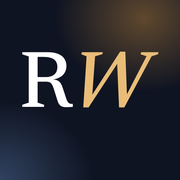
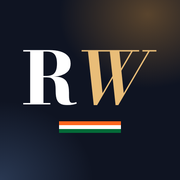
New nameplate: Modern Authority with Raisina Hill line art and tricolour bars
- Wordmark in Bodoni Moda (heavy roman 'Raisina', italic gold 'Wire'),
  set flush left over a heavy rule, with a line drawing of the Raisina
  Hill dome as the mark and the full skyline as a faint horizon below.
- Tricolour as plain saffron, white and green bars beside the tagline and
  wordmark; no Ashoka Chakra, seal or emblem.
- Same mark in the pinned menu, footer and control room header.
- New RW app icons, maskable icon, favicon and link-preview image.
- brand.js holds the line art and tricolour so every placement matches.

Claude-Session: https://claude.ai/code/session_014xfZjNi94E1FGGt9duM1wX

Changed region(s): [[0.1111, 0.2778, 0.8889, 0.6111], [0.3056, 0.6667, 0.6944, 0.75]]

diff --git a/src/style.css b/src/style.css
@@ -4,7 +4,7 @@
   color-scheme:light;
   --bg:#f8f8fa;--ink:#0f1422;--ink-2:#3b414d;--muted:#596173;--line:rgba(15,20,34,.09);
   --gold:#e9bd78;--gold-ink:#7a530f;--saffron:#f5a944;--up:#137a55;--down:#b4332a;--live:#d64535;
-  --serif:Newsreader,Georgia,"Times New Roman",serif;--sans:Manrope,system-ui,-apple-system,"Segoe UI",sans-serif;--mono:"DM Mono",ui-monospace,monospace;
+  --serif:Newsreader,Georgia,"Times New Roman",serif;--display:"Bodoni Moda",Didot,"Bodoni 72",Georgia,serif;--sans:Manrope,system-ui,-apple-system,"Segoe UI",sans-serif;--mono:"DM Mono",ui-monospace,monospace;
   --max:1360px;--gutter:40px;--text-scale:1;
   --glass-bg:rgba(255,255,255,.6);
   --glass-shadow:inset 0 1px 0 rgba(255,255,255,.95),0 0 0 1px rgba(15,20,34,.05),0 16px 46px rgba(15,20,34,.08);
@@ -66,10 +66,25 @@ img{max-width:100%;display:block}
 .utility-left span{display:inline-flex;align-items:center;gap:8px}
 .utility-right{display:flex;align-items:center;gap:10px}
 .utility-right .text-btn{border:0;background:none;font-weight:700;padding:10px 6px}
-.masthead{text-align:center;padding-top:14px}
-.masthead a{display:inline-block;font:500 clamp(46px,6vw,74px)/1 var(--serif);letter-spacing:-2px;color:var(--ink)}
-.masthead a i{color:var(--gold-ink)}
-.masthead .meta{margin-top:10px}
+/* Nameplate: Bodoni wordmark, Raisina Hill dome mark, tricolour bars, skyline horizon. */
+.wordmark{font:800 1em/.86 var(--display);font-variation-settings:"opsz" 11;letter-spacing:-.035em;color:var(--ink);white-space:nowrap}
+.wordmark em{font-style:italic;font-weight:600;font-variation-settings:"opsz" 11;letter-spacing:-.02em;color:var(--gold-ink)}
+.dome-mark{display:block;flex-shrink:0;color:var(--ink)}
+.tribar{display:inline-flex;gap:3px;align-self:stretch;flex-shrink:0}
+.tribar i{display:block;width:5px;background:#FF671F}
+.tribar i:nth-child(2){background:#fff;box-shadow:inset 0 0 0 1px rgba(15,20,34,.14)}
+.tribar i:nth-child(3){background:#046A38}
+.masthead{padding-top:22px}
+.nameplate{display:flex;align-items:flex-end;justify-content:space-between;gap:30px;padding-bottom:16px;border-bottom:3px solid var(--ink)}
+.nameplate-link{display:flex;align-items:flex-end;gap:clamp(12px,1.6vw,22px);font-size:clamp(46px,7.4vw,104px)}
+.nameplate-link:hover .wordmark{color:var(--ink)}
+.nameplate .dome-mark{width:1.27em;margin-bottom:.08em}
+.nameplate-tag{display:flex;align-items:center;gap:14px;margin-bottom:8px}
+.nameplate-tag .tribar{height:54px}
+.nameplate-tag p{margin:0;font:500 11px/1.7 var(--mono);letter-spacing:1.5px;text-transform:uppercase;color:var(--ink-2)}
+.nameplate-tag .l{display:block}
+.nameplate-tag .gold{color:var(--gold-ink)}
+.skyline-band{display:block;width:100%;height:62px;margin-top:6px;color:rgba(15,20,34,.32)}
 .nav-dock{position:sticky;top:10px;z-index:30;margin-top:20px}
 .nav-dock:before{content:"";position:absolute;left:0;right:0;top:-10px;height:0;background:linear-gradient(var(--bg) 72%,rgba(248,248,250,0));pointer-events:none;z-index:-1;transition:height .2s}
 body.nav-stuck .nav-dock:before{height:84px}
@@ -79,10 +94,11 @@ body.nav-stuck.is-reading .nav-dock:before{height:156px}
 .site-nav a{flex-shrink:0;padding:9px 15px;border-radius:999px;font-size:14px;font-weight:600;white-space:nowrap}
 .site-nav a:hover{background:rgba(15,20,34,.05);color:var(--ink)}
 .site-nav a[aria-current=page]{background:var(--ink);color:#fff}
-.site-nav .nav-brand{display:none;padding:6px 14px 6px 12px;font:500 21px/1 var(--serif);letter-spacing:-.4px}
+.site-nav .nav-brand{display:none;align-items:center;gap:8px;padding:4px 14px 4px 10px;font-size:22px}
+.site-nav .nav-brand .dome-mark{width:36px}
+.site-nav .nav-brand .tribar{height:18px;gap:2px}.site-nav .nav-brand .tribar i{width:3px}
 .site-nav .nav-brand:hover{background:none}
-.site-nav .nav-brand i{color:var(--gold-ink)}
-body.nav-stuck .site-nav .nav-brand{display:inline-block}
+body.nav-stuck .site-nav .nav-brand{display:inline-flex}
 body.nav-stuck .site-nav{max-width:var(--max);background:rgba(255,255,255,.86);box-shadow:inset 0 1px 0 rgba(255,255,255,.95),0 0 0 1px rgba(15,20,34,.06),0 18px 40px rgba(15,20,34,.12)}
 .read-progress{position:fixed;left:0;top:0;z-index:60;width:100%;height:3px;transform:scaleX(0);transform-origin:0 50%;background:linear-gradient(90deg,#cda05b,#e9bd78,#f5a944);pointer-events:none}
 .view-enter{animation:view-in .35s ease}
@@ -167,7 +183,10 @@ body.nav-stuck .site-nav{max-width:var(--max);background:rgba(255,255,255,.86);b
 /* ---------- Footer ---------- */
 .site-footer{margin-top:70px;padding:34px 0 44px;border-top:1px solid var(--line)}
 .footer-top{display:flex;flex-wrap:wrap;align-items:center;justify-content:space-between;gap:20px}
-.footer-brand{font:500 28px var(--serif)}.footer-brand i{color:var(--gold-ink)}
+.footer-brand{display:inline-flex;align-items:center;gap:10px;font-size:30px}
+.footer-brand:hover .wordmark{color:var(--ink)}
+.footer-brand .dome-mark{width:46px}
+.footer-brand .tribar{height:24px;gap:2px}.footer-brand .tribar i{width:4px}
 .footer-links{display:flex;flex-wrap:wrap;gap:20px;font-size:14px;color:var(--muted)}
 .lead-form{margin-top:26px;border-radius:22px;padding:20px;display:grid;grid-template-columns:auto repeat(4,minmax(0,1fr)) auto;align-items:center;gap:10px}
 .lead-form .kicker{margin-right:8px}
@@ -277,8 +296,14 @@ body.nav-stuck .site-nav{max-width:var(--max);background:rgba(255,255,255,.86);b
   .side-item .kicker{margin-top:0}
   .side-item h3{font-size:18px}
   .lead-form{grid-template-columns:1fr}
-  .masthead a{letter-spacing:-1.2px}
-  .masthead .meta{font-size:10px}
+  .masthead{padding-top:16px}
+  .nameplate{flex-direction:column;align-items:flex-start;gap:12px;padding-bottom:12px;border-bottom-width:2px}
+  .nameplate-tag{margin-bottom:0}
+  .nameplate-tag .tribar{height:30px}
+  .nameplate-tag p{font-size:9px;line-height:1.6}
+  .nameplate-tag .l{display:inline}
+  .nameplate-tag .gold{display:block}
+  .skyline-band{height:34px}
   .site-nav{border-radius:16px;margin-top:16px}
   .dock{padding:12px}
   .dock-grid{display:flex;overflow-x:auto;scroll-snap-type:x mandatory;margin-inline:-12px;padding:0 12px 4px;scrollbar-width:none}

diff --git a/src/main.js b/src/main.js
@@ -1,5 +1,6 @@
 import "./style.css";
 import { editions, NEWSLETTER_URL, AUTHOR } from "./editions.js";
+import { domeMark, skyline, tribar, wordmark } from "./brand.js";
 
 const $ = (sel, root = document) => root.querySelector(sel);
 const $$ = (sel, root = document) => [...root.querySelectorAll(sel)];
@@ -93,13 +94,17 @@ function renderShell() {
           <div class="account-menu glass" id="accountMenu" role="menu" hidden></div></div>
       </div>
     </div>
-    <div class="masthead" id="masthead"><a href="#/" aria-label="Raisina Wire home">Raisina <i>Wire</i></a><div class="meta">An Indian perspective on a changing world</div></div>
+    <div class="masthead" id="masthead">
+      <div class="nameplate"><a class="nameplate-link" href="#/" aria-label="Raisina Wire home">${domeMark("dome-mark")}<span class="wordmark">${wordmark()}</span></a>
+        <div class="nameplate-tag">${tribar()}<p><span class="l">An Indian perspective</span> <span class="l">on a changing world</span> <span class="l gold">New Delhi · Est. 2026</span></p></div></div>
+      ${skyline("skyline-band", true)}
+    </div>
   </header>
   <div class="nav-dock"><div class="wrap"><nav class="site-nav glass" id="siteNav" aria-label="Sections"></nav></div></div>
   <div class="read-progress" id="readProgress" aria-hidden="true"></div>
   <main id="view" tabindex="-1"></main>
   <footer class="site-footer"><div class="wrap">
-    <div class="footer-top"><a class="footer-brand" href="#/">Raisina <i>Wire</i></a>
+    <div class="footer-top"><a class="footer-brand" href="#/" aria-label="Raisina Wire home">${domeMark("dome-mark")}<span class="wordmark">${wordmark()}</span>${tribar()}</a>
       <div class="footer-links"><a href="#/editions">All editions</a><a href="#/live">Live wire</a><a href="#/markets">Markets</a><a href="${NEWSLETTER_URL}" target="_blank" rel="noreferrer" id="linkedinLink">Newsletter on LinkedIn ↗</a><a href="/privacy.html">Privacy</a><a href="/terms.html">Terms</a></div></div>
     <form class="lead-form glass" id="leadForm"><span class="kicker">Briefings &amp; partnerships</span>
       <label class="sr-only" for="leadName">Your name</label><input id="leadName" name="name" placeholder="Your name" required minlength="2" autocomplete="name">
@@ -147,7 +152,7 @@ function renderShell() {
 }
 
 function renderNav(route) {
-  $("#siteNav").innerHTML = `<a class="nav-brand" href="#/" aria-label="Raisina Wire home" tabindex="-1">Raisina <i>Wire</i></a>` + NAV.map(([label, href, active]) => `<a href="${href}"${active(route) ? ' aria-current="page"' : ""}>${label === "Live" && state.coverage.length ? `<span class="nav-live" aria-label="Live coverage running"></span>` : ""}${label}</a>`).join("")
+  $("#siteNav").innerHTML = `<a class="nav-brand" href="#/" aria-label="Raisina Wire home" tabindex="-1">${domeMark("dome-mark")}<span class="wordmark">${wordmark()}</span>${tribar()}</a>` + NAV.map(([label, href, active]) => `<a href="${href}"${active(route) ? ' aria-current="page"' : ""}>${label === "Live" && state.coverage.length ? `<span class="nav-live" aria-label="Live coverage running"></span>` : ""}${label}</a>`).join("")
     + `<button class="search-btn" type="button" data-action="search" aria-label="Search"><svg width="16" height="16" viewBox="0 0 24 24" fill="none" stroke="currentColor" stroke-width="2" aria-hidden="true"><circle cx="11" cy="11" r="7"/><path d="M20 20l-3.5-3.5"/></svg></button>`;
   $("#siteNav").dispatchEvent(new Event("scroll"));
 }

diff --git a/admin.html b/admin.html
@@ -1,5 +1,5 @@
 <!doctype html>
-<html lang="en"><head><meta charset="utf-8"><meta name="viewport" content="width=device-width,initial-scale=1"><meta name="theme-color" content="#f6f7f9"><link rel="icon" href="/favicon.png" type="image/png"><title>Raisina Wire — Control Room</title><link rel="preconnect" href="https://fonts.googleapis.com"><link rel="preconnect" href="https://fonts.gstatic.com" crossorigin><link rel="stylesheet" href="https://fonts.googleapis.com/css2?family=Newsreader:ital,opsz,wght@0,6..72,500;1,6..72,500&family=Manrope:wght@400;500;600;700;800&family=DM+Mono:wght@400;500&display=swap"><link rel="stylesheet" href="/admin.css"></head>
-<body><header><a href="/" class="brand"><b>Raisina <i>Wire</i></b><span>Control room</span></a><div class="header-right"><span id="sessionLabel">Checking access…</span><a href="/">← View site</a></div></header>
+<html lang="en"><head><meta charset="utf-8"><meta name="viewport" content="width=device-width,initial-scale=1"><meta name="theme-color" content="#f6f7f9"><link rel="icon" href="/favicon.png" type="image/png"><title>Raisina Wire — Control Room</title><link rel="preconnect" href="https://fonts.googleapis.com"><link rel="preconnect" href="https://fonts.gstatic.com" crossorigin><link rel="stylesheet" href="https://fonts.googleapis.com/css2?family=Newsreader:ital,opsz,wght@0,6..72,500;1,6..72,500&family=Bodoni+Moda:ital,opsz,wght@0,6..96,800;1,6..96,600&family=Manrope:wght@400;500;600;700;800&family=DM+Mono:wght@400;500&display=swap"><link rel="stylesheet" href="/admin.css"></head>
+<body><header><a href="/" class="brand"><b>Raisina<i> Wire</i></b><em class="tribar" aria-hidden="true"><i></i><i></i><i></i></em><span>Control room</span></a><div class="header-right"><span id="sessionLabel">Checking access…</span><a href="/">← View site</a></div></header>
 <div class="layout"><aside class="sidebar"><div class="side-label">CONTROL ROOM</div><button class="nav active" data-view="overview">Overview</button><button class="nav" data-view="editorial">Articles</button><button class="nav" data-view="multimedia">Multimedia</button><button class="nav" data-view="live">Live publishing</button><button class="nav" data-view="members">Members & roles</button><button class="nav" data-view="community">Community moderation</button><button class="nav" data-view="events">Events & briefings</button><button class="nav" data-view="sales">Sales & leads</button><button class="nav" data-view="social">Social metrics</button><div class="sidebar-note">Protected area · admin/editor roles enforced by API</div></aside>
 <main><div class="page-head"><div><small>RAISINA WIRE / ADMINISTRATION</small><h1 id="viewTitle">Overview</h1><p id="viewDescription">Platform pulse, publishing and membership.</p></div><button id="refresh" class="button">Refresh data ↻</button></div><div id="notice" class="notice"></div><section id="view" class="view"><p class="muted">Loading control room…</p></section></main></div><script type="module" src="/admin.js"></script></body></html>

diff --git a/src/brand.js b/src/brand.js
@@ -1,0 +1,34 @@
+// Raisina Wire brand marks: the Raisina Hill skyline as line art, and the tricolour as plain bars.
+// The skyline is architecture only (central dome, colonnade, North and South Block domes);
+// no seal, emblem or Ashoka Chakra is used anywhere.
+
+const cols = (x0, x1, step, y0, y1) => { let d = ""; for (let x = x0; x <= x1; x += step) d += `M${x} ${y0}V${y1}`; return d; };
+const sideBlock = (x0, x1) => {
+  const c = (x0 + x1) / 2;
+  return `<path d="M${x0} 112V82H${x1}V112M${x0 - 3} 82H${x1 + 3}M${x0} 86H${x1}"/>`
+    + `<path d="${cols(x0 + 8, x1 - 8, 9, 91, 108)}" stroke-width="0.8"/>`
+    + `<path d="M${c - 12} 82V72H${c + 12}V82M${c - 14} 72H${c + 14}"/>`
+    + `<path d="M${c - 11} 72C${c - 11} 63 ${c - 6} 58 ${c} 58C${c + 6} 58 ${c + 11} 63 ${c + 11} 72"/>`
+    + `<path d="M${c} 58V51M${c - 2} 51H${c + 2}"/>`
+    + `<path d="M${x0 + 2} 82A6 6 0 0 1 ${x0 + 14} 82M${x1 - 14} 82A6 6 0 0 1 ${x1 - 2} 82M${x0 + 8} 76V73M${x1 - 8} 76V73"/>`;
+};
+const SKYLINE = '<path d="M0 112H600"/>' + sideBlock(36, 150) + sideBlock(450, 564)
+  + '<path d="M150 112V97H200M400 97H450V112M150 100H200M400 100H450"/>'
+  + '<path d="M200 112V84H400V112M194 84H406M200 88H400"/>'
+  + `<path d="${cols(210, 390, 8, 92, 112)}" stroke-width="0.8"/>`
+  + '<path d="M260 84V68H340V84M254 68H346M258 72H342"/>'
+  + `<path d="${cols(266, 334, 8, 73, 84)}" stroke-width="0.8"/>`
+  + '<path d="M264 68C264 41 281 25 300 25C319 25 336 41 336 68"/>'
+  + '<path d="M300 25V68M285 30C278 41 276 55 276 68M315 30C322 41 324 55 324 68" stroke-width="0.8"/>'
+  + '<path d="M294 25V17H306V25M291 17H309M300 17V8M297 8H303"/>'
+  + '<path d="M204 84A9 9 0 0 1 222 84M378 84A9 9 0 0 1 396 84M213 75V71M387 75V71"/>';
+
+const svg = (viewBox, cls, strokeWidth) =>
+  `<svg class="${cls}" viewBox="${viewBox}" preserveAspectRatio="xMidYMax meet" fill="none" stroke="currentColor" stroke-width="${strokeWidth}" stroke-linecap="round" stroke-linejoin="round" aria-hidden="true" focusable="false">${SKYLINE}</svg>`;
+
+// The central dome alone, used as the compact mark.
+export const domeMark = (cls = "dome-mark") => svg("196 2 208 114", cls, 3.4);
+// The full skyline; `band` crops to the lower half for a horizon line under the masthead.
+export const skyline = (cls = "skyline", band = false) => svg(band ? "0 60 600 54" : "0 0 600 120", cls, band ? 0.7 : 1.2);
+export const tribar = (cls = "tribar") => `<span class="${cls}" aria-hidden="true"><i></i><i></i><i></i></span>`;
+export const wordmark = () => `Raisina<em> Wire</em>`;

diff --git a/admin.css b/admin.css
@@ -6,10 +6,14 @@ body:before{content:"";position:fixed;inset:0;z-index:-1;pointer-events:none;bac
 a{color:inherit;text-decoration:none}
 :focus-visible{outline:2px solid var(--gold-ink);outline-offset:2px;border-radius:6px}
 header{height:68px;border-bottom:1px solid var(--line);display:flex;align-items:center;justify-content:space-between;gap:16px;padding:0 26px;background:rgba(255,255,255,.72);backdrop-filter:blur(20px) saturate(160%);-webkit-backdrop-filter:blur(20px) saturate(160%);position:sticky;top:0;z-index:5}
-.brand{display:flex;align-items:baseline;gap:10px}
+.brand{display:flex;align-items:center;gap:10px}
 .brand span{font:500 11px var(--mono);letter-spacing:1.4px;color:#fff;background:var(--ink);padding:4px 7px;border-radius:5px;align-self:center}
-.brand b{font:500 26px var(--serif);letter-spacing:-.5px}
-.brand i{color:var(--gold-ink)}
+.brand b{font:800 26px/1 "Bodoni Moda",Didot,Georgia,serif;font-variation-settings:"opsz" 11;letter-spacing:-.035em}
+.brand b i{font-style:italic;font-weight:600;color:var(--gold-ink)}
+.brand .tribar{display:inline-flex;gap:2px;height:20px;align-self:center}
+.brand .tribar i{display:block;width:3px;background:#FF671F}
+.brand .tribar i:nth-child(2){background:#fff;box-shadow:inset 0 0 0 1px rgba(15,20,34,.14)}
+.brand .tribar i:nth-child(3){background:#046A38}
 .header-right{display:flex;align-items:center;gap:20px;color:var(--muted);font-size:13px}
 .header-right a{color:var(--gold-ink);font-weight:800}
 .layout{display:grid;grid-template-columns:240px minmax(0,1fr);min-height:calc(100vh - 68px)}

diff --git a/index.html b/index.html
@@ -20,7 +20,7 @@
   <link rel="apple-touch-icon" href="/apple-touch-icon.png" />
   <link rel="preconnect" href="https://fonts.googleapis.com" />
   <link rel="preconnect" href="https://fonts.gstatic.com" crossorigin />
-  <link href="https://fonts.googleapis.com/css2?family=Newsreader:ital,opsz,wght@0,6..72,400;0,6..72,500;1,6..72,500&family=Manrope:wght@400;500;600;700;800&family=DM+Mono:wght@400;500&display=swap" rel="stylesheet" />
+  <link href="https://fonts.googleapis.com/css2?family=Newsreader:ital,opsz,wght@0,6..72,400;0,6..72,500;1,6..72,500&family=Bodoni+Moda:ital,opsz,wght@0,6..96,800;1,6..96,600&family=Manrope:wght@400;500;600;700;800&family=DM+Mono:wght@400;500&display=swap" rel="stylesheet" />
 </head>
 <body>
   <div id="app">

diff --git a/public/sw.js b/public/sw.js
@@ -1,4 +1,4 @@
-const CACHE = "raisina-wire-shell-v4";
+const CACHE = "raisina-wire-shell-v5";
 const SHELL = ["/", "/manifest.webmanifest", "/favicon.png"];
 self.addEventListener("install", event => event.waitUntil(caches.open(CACHE).then(c=>c.addAll(SHELL))));
 self.addEventListener("activate", event => event.waitUntil(caches.keys().then(keys=>Promise.all(keys.filter(k=>k!==CACHE).map(k=>caches.delete(k))))));
